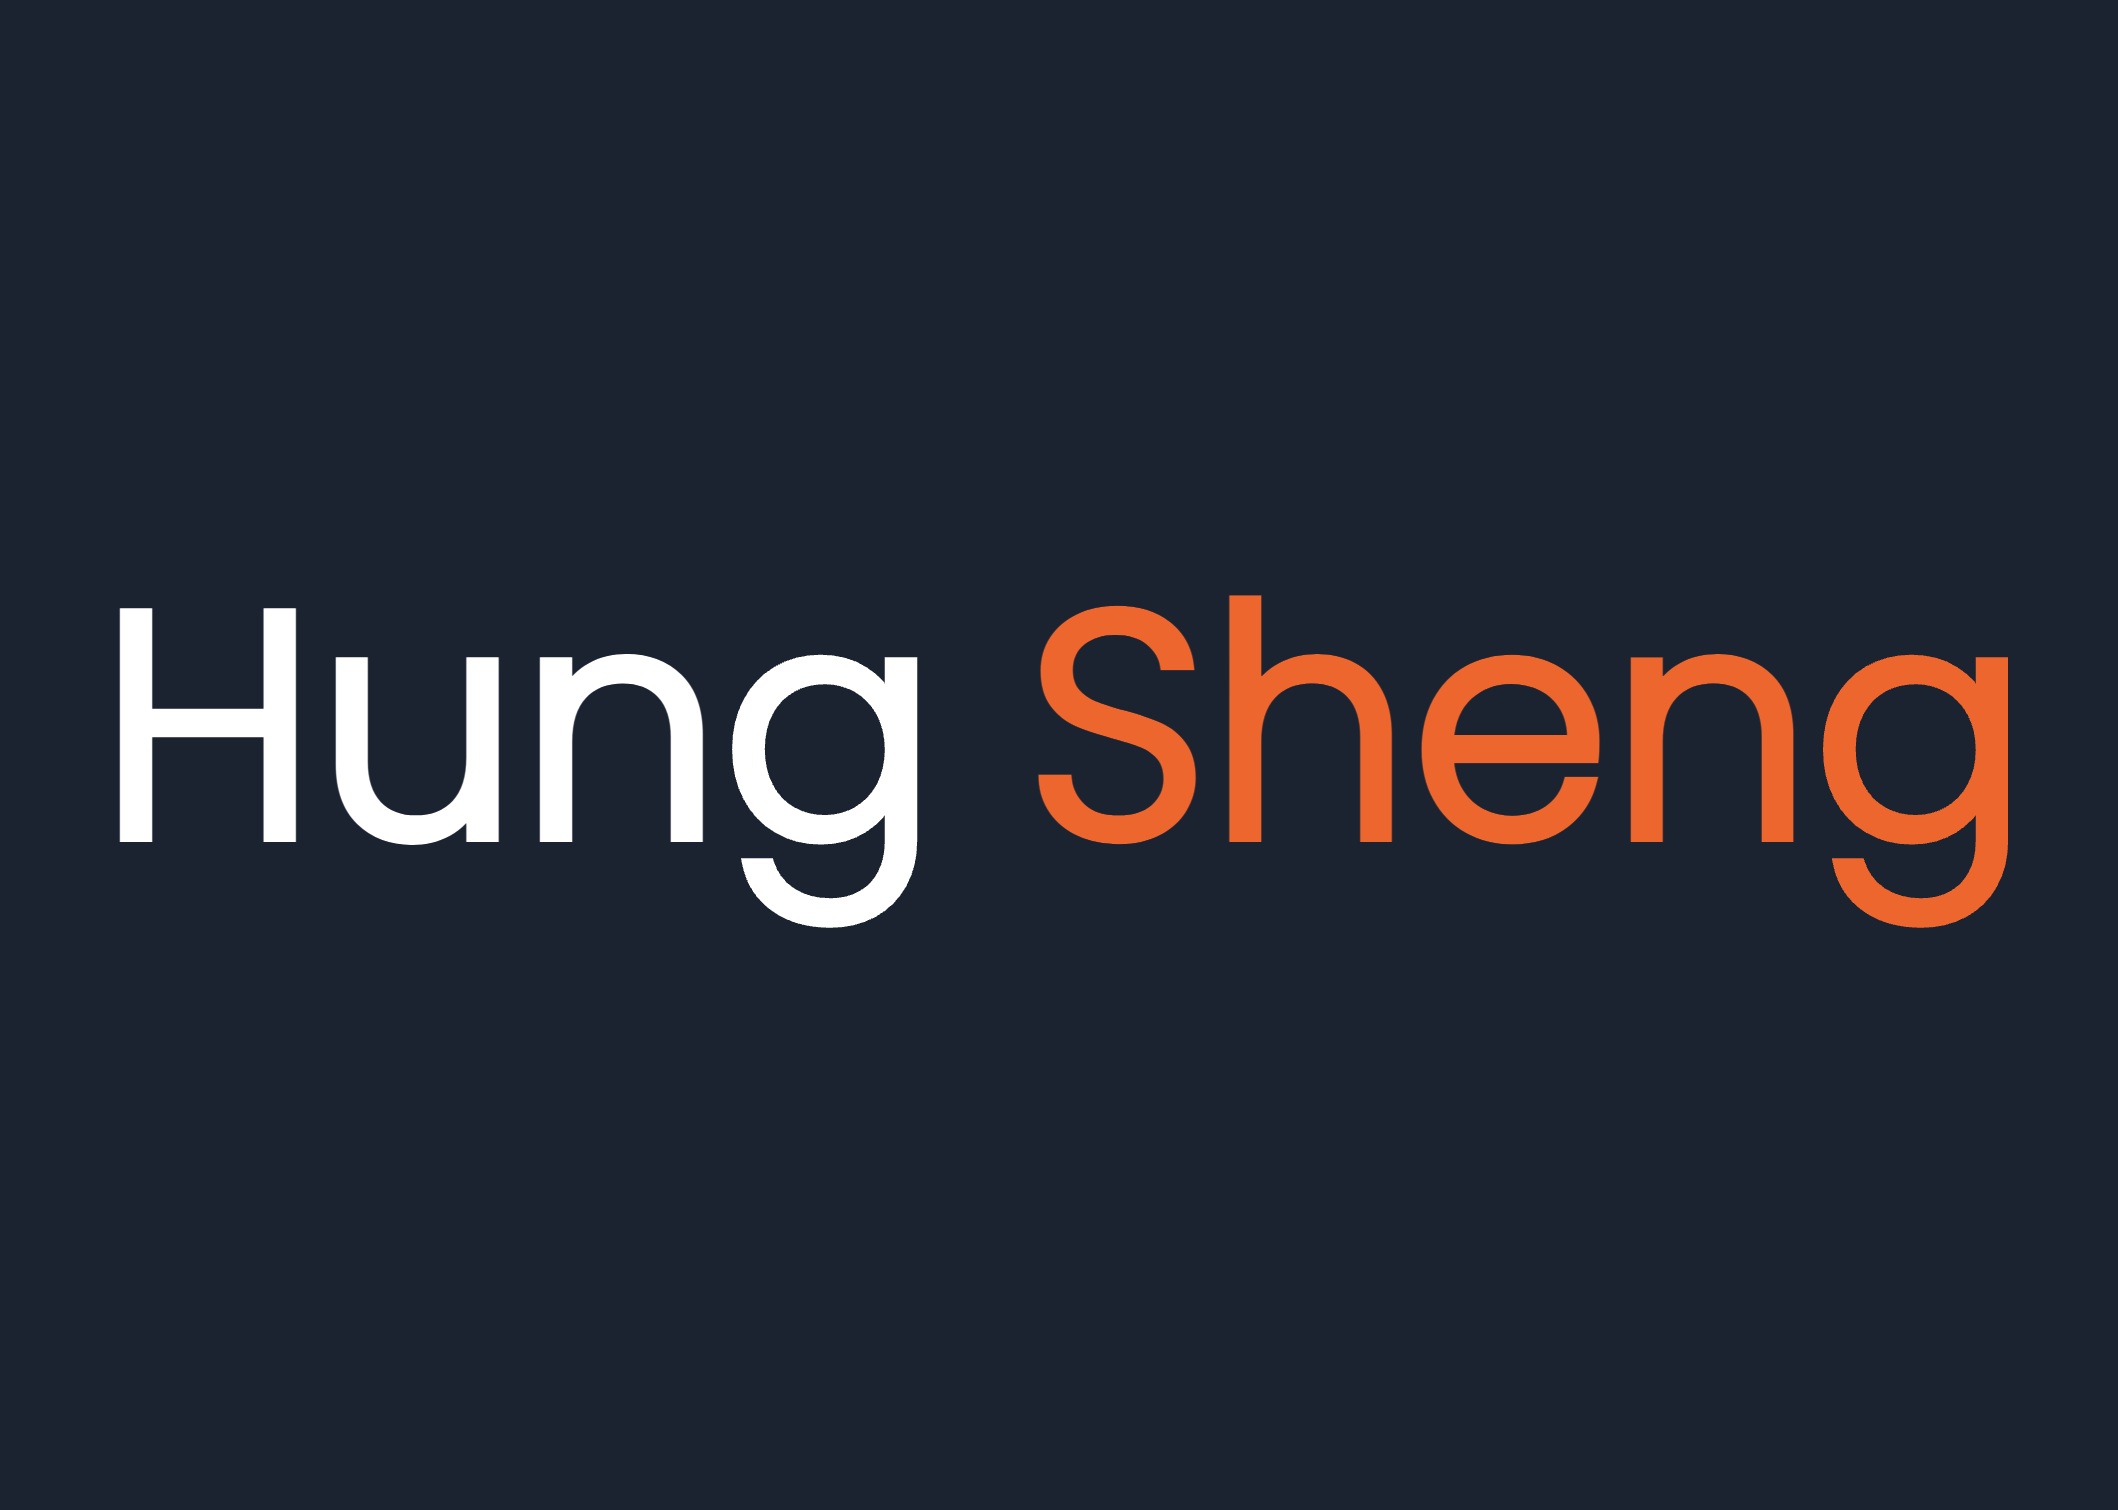
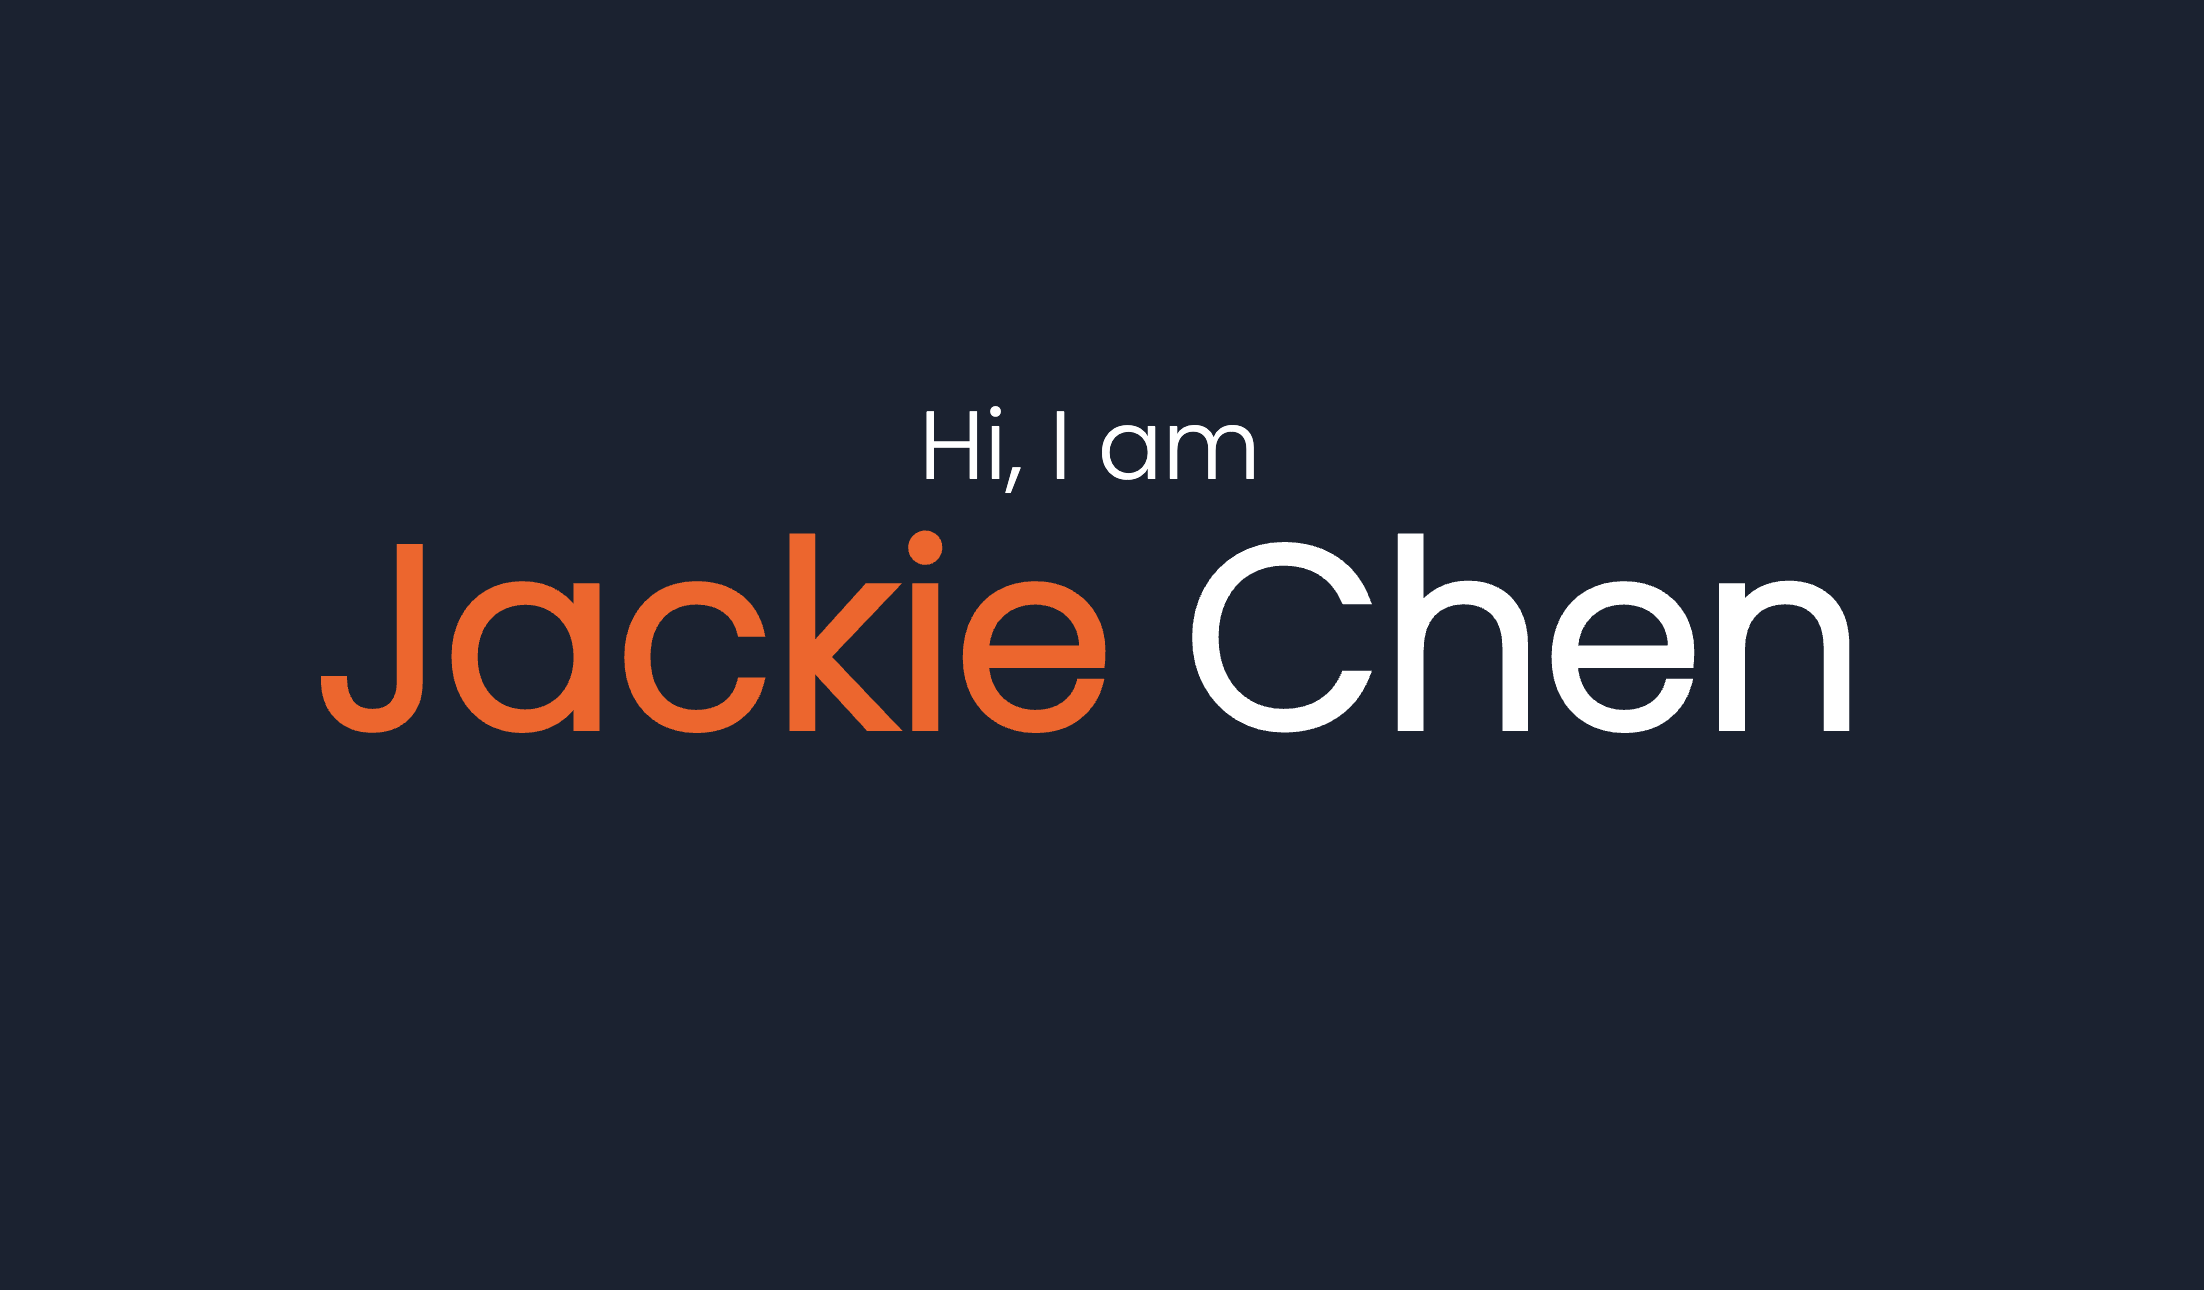
change photo and add info

Changed region(s): [[0.0312, 0.3101, 0.966, 0.6202]]

diff --git a/index.html b/index.html
@@ -4,15 +4,15 @@
     <meta charset="UTF-8" />
     <link rel="icon" type="image/svg+xml" href="/logo.png" />
     <meta name="viewport" content="width=device-width, initial-scale=1.0" />
-    <!-- <meta name="description" content="Jackie's personal portfolio" /> -->
-    <!-- <meta property="og:site_name" content="Jackie" />
+    <meta name="description" content="Jackie's personal portfolio" />
+    <meta property="og:site_name" content="Jackie" />
     <meta property="og:type" content="website" />
     <meta property="og:title" content="Personal portfolio" />
     <meta property="og:description" content="Jackie's personal portfolio" />
     <meta
       property="og:image"
       content="https://shift0965.github.io/portfolio/cover.png"
-    /> -->
+    />
     <title>Jackie Portfolio</title>
   </head>
   <body>

diff --git a/src/components/Swipers.jsx b/src/components/Swipers.jsx
@@ -14,28 +14,6 @@ const Swipers = (props) => {
     setActiveIndex(swiper.activeIndex);
   };
 
-  //prevent user from scrolling parent elements
-  useEffect(() => {
-    const preventScroll = (event) => {
-      event.preventDefault();
-      event.stopPropagation();
-    };
-
-    // Attach the event listener for touch devices
-    if ("ontouchstart" in window) {
-      document.body.addEventListener("touchmove", preventScroll, {
-        passive: false,
-      });
-    }
-
-    // Remove the event listener when the component unmounts
-    return () => {
-      if ("ontouchstart" in window) {
-        document.body.removeEventListener("touchmove", preventScroll);
-      }
-    };
-  }, []);
-
   return (
     <Swiper
       onActiveIndexChange={printoutNum}
